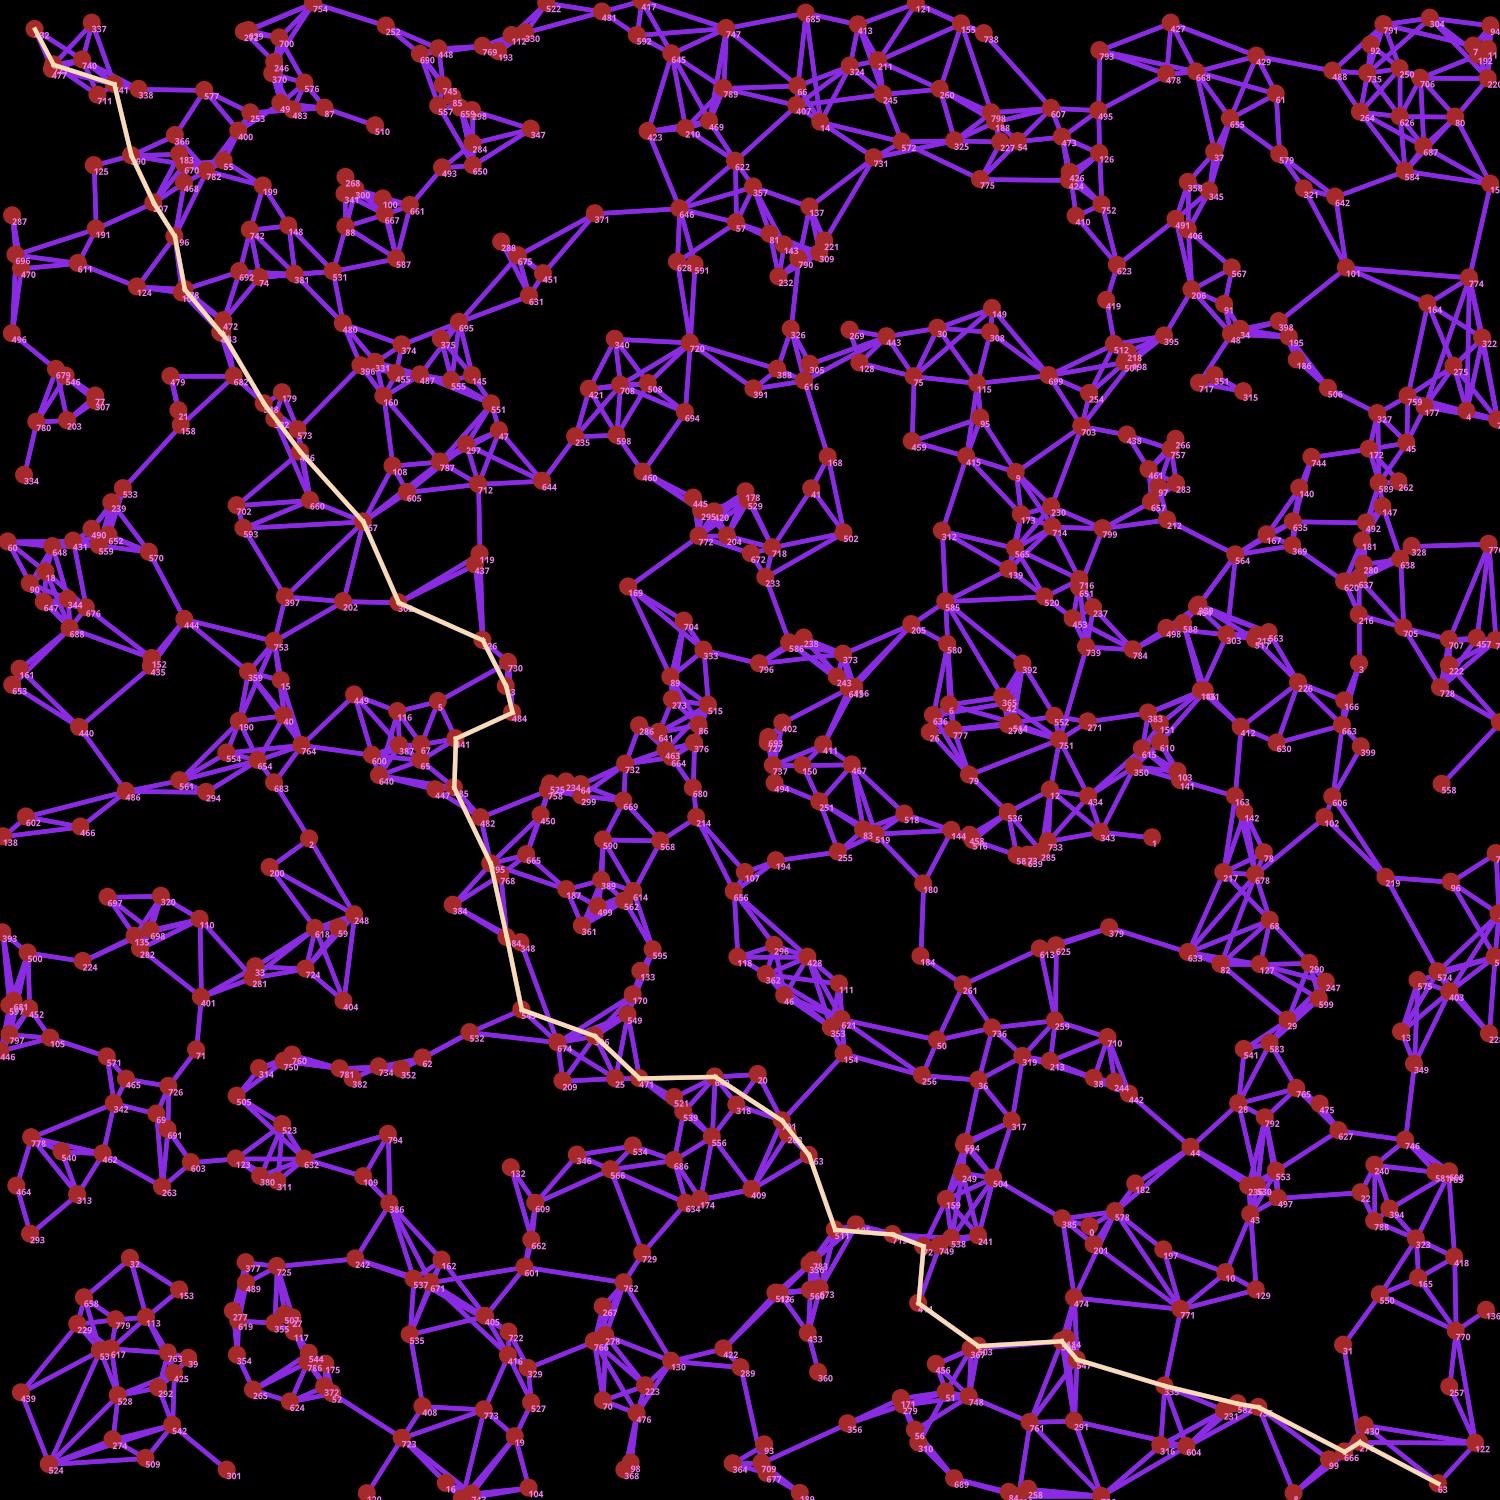
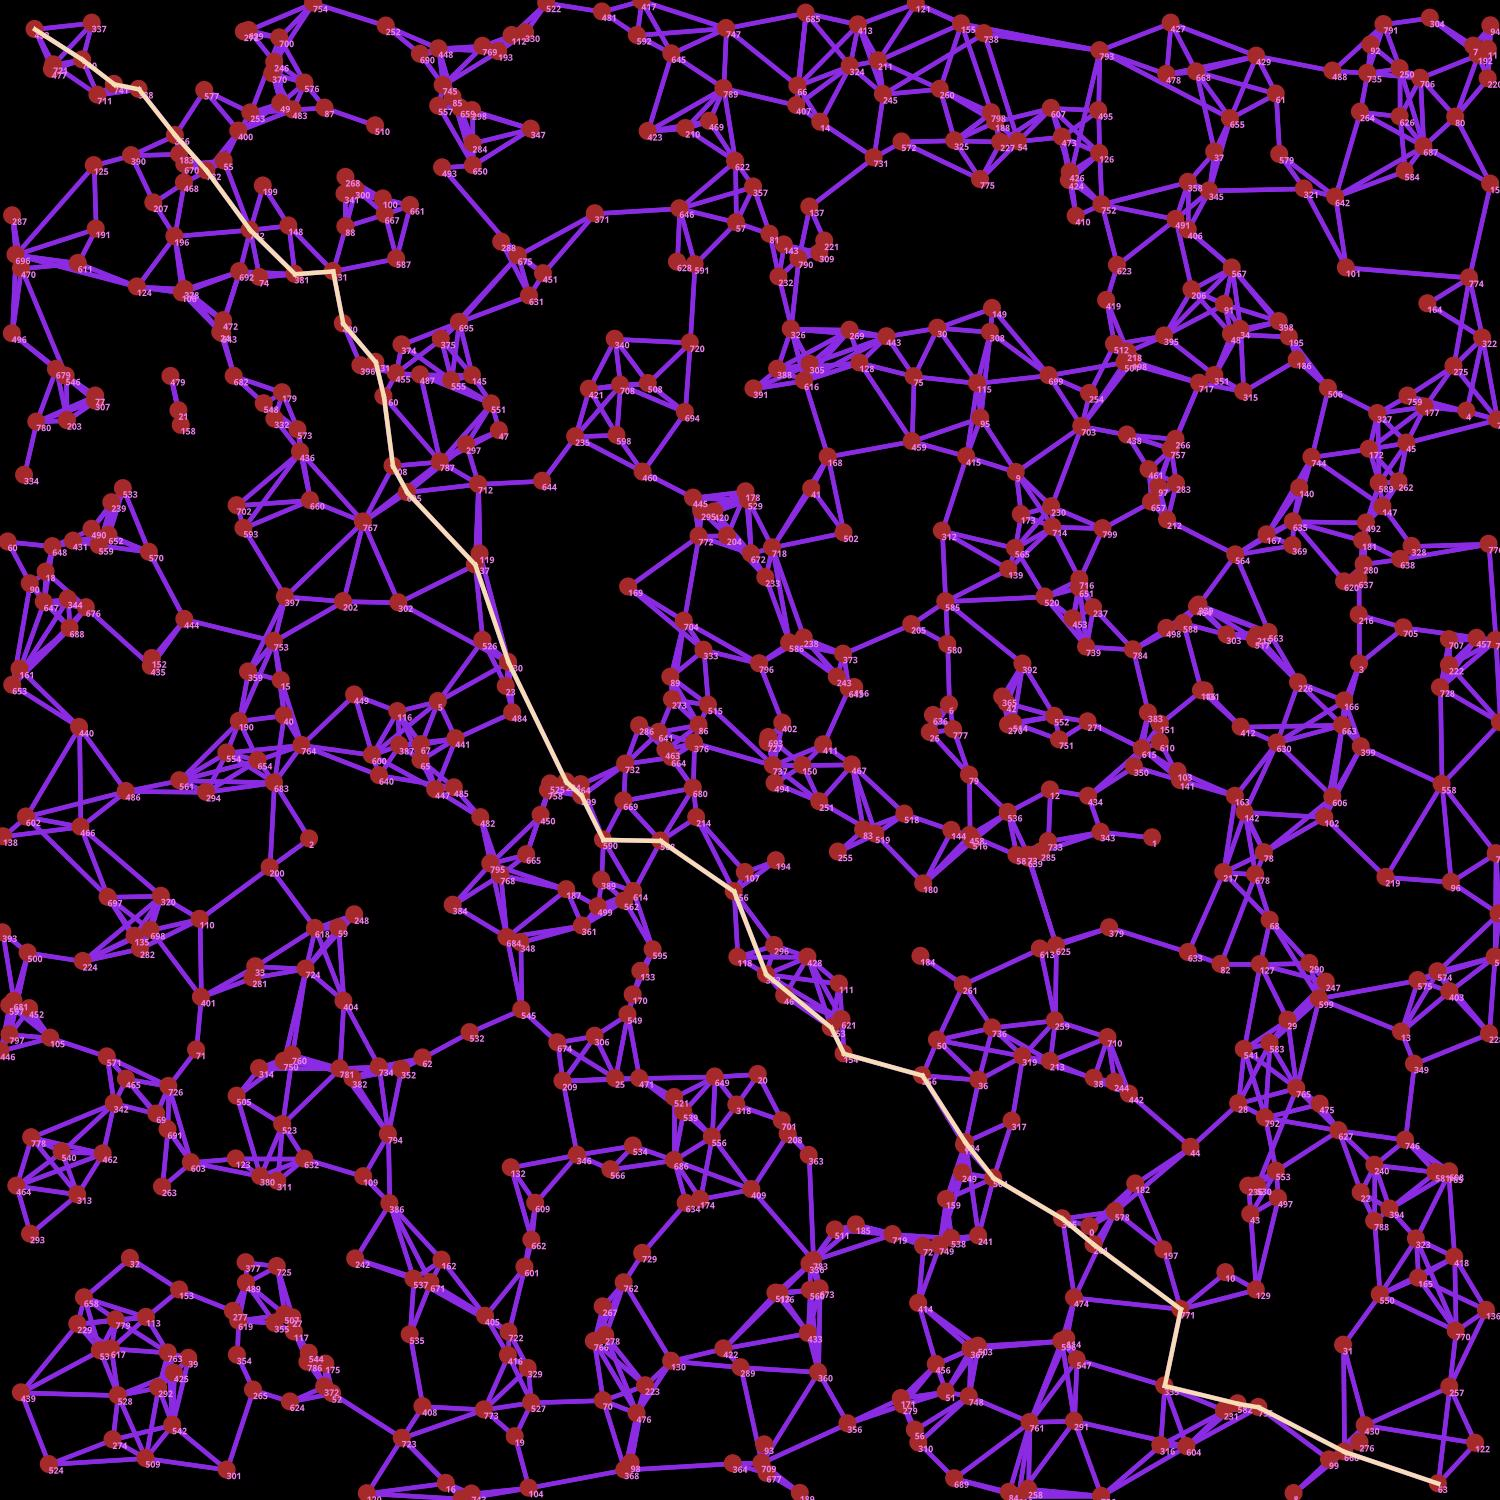
changed how NodesFactory handle connection creation. Now it is more convenient. Updated benchmark samples and tests

diff --git a/src/GraphSharp/NodesFactory.cs b/src/GraphSharp/NodesFactory.cs
@@ -14,6 +14,15 @@ namespace GraphSharp
         protected Func<int, INode> _createNode;
         protected Func<INode, INode, IChild> _createChild;
         public IList<INode> Nodes { get; protected set; }
+        /// <summary>
+        /// group of nodes that selected to be modified in next invocations.<br/>
+        /// For example nodesFactory.ForEach() will set this property just to Nodes and
+        /// next invocations of any operation will be performed on all nodes.
+        /// nodesFactory.ForOne(nodeId) will set this property to just one particular node from Nodes.
+        /// nodeFactory.ForNodes(nodes=>nodes.Where(...)) will set this property to any set of nodes
+        /// </summary>
+        /// <value></value>
+        public IEnumerable<INode> WorkingGroup { get; protected set; }
 
         /// <param name="createNode">Function to create nodes. Use it to CreateNodes for your own implementations of INode</param>
         /// <param name="createChild">Method that consists of node, parent and returns child. createChild = (node,parent)=>new SomeNode(node,parent,...) // etc..</param>
@@ -56,37 +65,56 @@ namespace GraphSharp
         }
 
         /// <summary>
-        /// Apply some operation to all nodes. 
+        /// Will set <see cref="NodesFactory.WorkingGroup"/> to <see cref="NodesFactory.Nodes"/>
         /// </summary>
-        /// <param name="operation">Function that will be applied to all nodes. Looks like this:<br/>(node,nodesFactory)=>nodesFactory.DoSomething(node)</param>
         /// <returns></returns>
-        public NodesFactory ForEach(Func<INode, NodesFactory, NodesFactory> operation)
+        public NodesFactory ForEach()
         {
-            foreach (var node in Nodes)
-                operation(node, this);
+            WorkingGroup = Nodes;
             return this;
         }
 
         /// <summary>
-        /// Randomly add to node's Children another nodes. It connect nodes to each other.
+        /// Will set <see cref="NodesFactory.WorkingGroup"/> to particular node from <see cref="NodesFactory.Nodes"/> with id = nodeId
         /// </summary>
-        /// <param name="node">Node that need to be connected</param>
+        /// <param name="nodeId"></param>
+        /// <returns></returns>
+        public NodesFactory ForOne(int nodeId){
+            WorkingGroup = Nodes.Where(x=>x.Id==nodeId);
+            return this;
+        }
+
+        /// <summary>
+        /// Will set <see cref="NodesFactory.WorkingGroup"/> to some enumerable of nodes from that must be selected from <see cref="NodesFactory.Nodes"/>
+        /// </summary>
+        /// <param name="selector">receive <see cref="NodesFactory.Nodes"/> and returns some set of values from them</param>
+        /// <returns></returns>
+        public NodesFactory ForNodes(Func<IList<INode>,IEnumerable<INode>> selector){
+            WorkingGroup = selector(Nodes);
+            return this;
+        }
+
+        /// <summary>
+        /// Randomly adds to node's Children another nodes. It connect nodes to each other from current <see cref="NodesFactory.WorkingGroup"/>
+        /// </summary>
         /// <param name="countOfConnections">How much children node need</param>
-        public NodesFactory ConnectNodes(INode node, int countOfConnections)
+        public NodesFactory ConnectNodes(int countOfConnections)
         {
             countOfConnections = countOfConnections > Nodes.Count ? Nodes.Count : countOfConnections;
 
-            var start_index = _rand.Next(Nodes.Count);
-            ConnectNodeToNodes(node, start_index, countOfConnections);
+            foreach (var node in WorkingGroup)
+            {
+                var start_index = _rand.Next(Nodes.Count);
+                ConnectNodeToNodes(node, start_index, countOfConnections);
+            }
             return this;
         }
         /// <summary>
-        /// Randomly add to node's Children another nodes, but create random count of connections. It connect nodes to each other.
+        /// Randomly add to node's Children another nodes, but create random count of connections. It connect nodes to each other from current <see cref="NodesFactory.WorkingGroup"/>
         /// </summary>
-        /// <param name="node">Node that need to be connected to others</param>
         /// <param name="minCountOfNodes">Min count of children of each node</param>
         /// <param name="maxCountOfNodes">Max count of children of each node</param>
-        public NodesFactory ConnectRandomly(INode node, int minCountOfNodes, int maxCountOfNodes)
+        public NodesFactory ConnectRandomly(int minCountOfNodes, int maxCountOfNodes)
         {
             minCountOfNodes = minCountOfNodes < 1 ? 1 : minCountOfNodes;
             maxCountOfNodes = maxCountOfNodes > Nodes.Count ? Nodes.Count : maxCountOfNodes;
@@ -99,48 +127,58 @@ namespace GraphSharp
                 minCountOfNodes = minCountOfNodes ^ maxCountOfNodes;
             }
 
-            int count_of_connections = _rand.Next(maxCountOfNodes - minCountOfNodes) + minCountOfNodes;
-            var start_index = _rand.Next(Nodes.Count);
-            ConnectNodeToNodes(node, start_index, count_of_connections);
+            foreach (var node in WorkingGroup)
+            {
+                int count_of_connections = _rand.Next(maxCountOfNodes - minCountOfNodes) + minCountOfNodes;
+                var start_index = _rand.Next(Nodes.Count);
+                ConnectNodeToNodes(node, start_index, count_of_connections);
+            }
             return this;
         }
 
         /// <summary>
-        /// Removes parent node from it's children connection. Or simply makes any connection between nodes onedirectional.
+        /// Removes parent node from it's children connection. Or simply makes any connection between nodes onedirectional in current <see cref="NodesFactory.WorkingGroup"/>
         /// </summary>
-        public NodesFactory MakeDirected(INode parent)
+        public NodesFactory MakeDirected()
         {
-            bool fine = false;
-            while (!fine)
+            foreach (var parent in WorkingGroup)
             {
-                fine = true;
-                for (int i = 0; i < parent.Children.Count; i++)
+                bool fine = false;
+                while (!fine)
                 {
-                    var child = parent.Children[i];
-
-                    var toRemove = child.Node.Children.Any(x => x.Node.Id == parent.Id);
-                    if (toRemove)
+                    fine = true;
+                    for (int i = 0; i < parent.Children.Count; i++)
                     {
-                        parent.Children.Remove(child);
-                        fine = false;
+                        var child = parent.Children[i];
+
+                        var toRemove = child.Node.Children.Any(x => x.Node.Id == parent.Id);
+                        if (toRemove)
+                        {
+                            parent.Children.Remove(child);
+                            fine = false;
+                        }
                     }
                 }
             }
             return this;
         }
         /// <summary>
-        /// ensures that every child of parent's node have parent included in children. Or simply make sure that any connection between two nodes are bidirectional. 
+        /// ensures that every child of parent's node have parent included in children. Or simply make sure that any connection between two nodes are bidirectional in current <see cref="NodesFactory.WorkingGroup"/>
         /// </summary>
-        public NodesFactory MakeUndirected(INode parent)
+        public NodesFactory MakeUndirected()
         {
-            for (int i = 0; i < parent.Children.Count; i++)
+            foreach (var parent in WorkingGroup)
             {
-                var child = parent.Children[i];
 
-                var toAdd = !child.Node.Children.Any(x => x.Node.Id == parent.Id);
-                if (toAdd)
+                for (int i = 0; i < parent.Children.Count; i++)
                 {
-                    child.Node.Children.Add(_createChild(parent, child.Node));
+                    var child = parent.Children[i];
+
+                    var toAdd = !child.Node.Children.Any(x => x.Node.Id == parent.Id);
+                    if (toAdd)
+                    {
+                        child.Node.Children.Add(_createChild(parent, child.Node));
+                    }
                 }
             }
             return this;
@@ -165,57 +203,65 @@ namespace GraphSharp
         }
 
         /// <summary>
-        /// Randomly connects node to it's closest nodes by distance function.
+        /// Randomly connects node to it's closest nodes by distance function in current <see cref="NodesFactory.WorkingGroup"/>
         /// </summary>
         /// <param name="minChildCount">minimum children count</param>
         /// <param name="maxChildCount">maximum children count</param>
         /// <param name="distance">Func to determine how much one node is distant from another</param>
         /// <returns></returns>
-        public NodesFactory ConnectToClosest(INode parent, int minChildCount, int maxChildCount, Func<INode, INode, double> distance)
+        public NodesFactory ConnectToClosest(int minChildCount, int maxChildCount, Func<INode, INode, double> distance)
         {
-            if (parent.Children.Count > maxChildCount) return this;
-            var childCount = _rand.Next(maxChildCount - minChildCount) + minChildCount;
-            for (int i = 0; i < childCount; i++)
+            foreach (var parent in WorkingGroup)
             {
-                (INode? node, double distance) min = (null, 0);
-                int shift = _rand.Next(Nodes.Count);
-
-                for (int b = 0; b < Nodes.Count; b++)
+                if (parent.Children.Count > maxChildCount) continue;
+                var childCount = _rand.Next(maxChildCount - minChildCount) + minChildCount;
+                for (int i = 0; i < childCount; i++)
                 {
-                    var pretendent = Nodes[(b + shift) % Nodes.Count];
+                    (INode? node, double distance) min = (null, 0);
+                    int shift = _rand.Next(Nodes.Count);
 
-                    if (pretendent.Id == parent.Id) continue;
-                    if (pretendent.Children.Count > maxChildCount) continue;
+                    for (int b = 0; b < Nodes.Count; b++)
+                    {
+                        var pretendent = Nodes[(b + shift) % Nodes.Count];
 
-                    if (min.node is null)
-                    {
-                        min = (pretendent, distance(parent, pretendent));
-                        continue;
+                        if (pretendent.Id == parent.Id) continue;
+                        if (pretendent.Children.Count > maxChildCount) continue;
+
+                        if (min.node is null)
+                        {
+                            min = (pretendent, distance(parent, pretendent));
+                            continue;
+                        }
+                        var pretendent_distance = distance(parent, pretendent);
+                        if (pretendent_distance < min.distance && parent.Children.FirstOrDefault(x => x.Node.Id == pretendent.Id) is null)
+                        {
+                            min = (pretendent, pretendent_distance);
+                        }
                     }
-                    var pretendent_distance = distance(parent, pretendent);
-                    if (pretendent_distance < min.distance && parent.Children.FirstOrDefault(x => x.Node.Id == pretendent.Id) is null)
-                    {
-                        min = (pretendent, pretendent_distance);
-                    }
+                    var node = min.node;
+                    if (node is null) continue;
+                    parent.Children.Add(_createChild(node, parent));
+                    node.Children.Add(_createChild(parent, node));
                 }
-                var node = min.node;
-                if (node is null) continue;
-                parent.Children.Add(_createChild(node, parent));
-                node.Children.Add(_createChild(parent, node));
             }
             return this;
         }
 
         /// <summary>
-        /// removes all children of parent nodes and every connection to parent node from any other node. It simply isolate node from others.
+        /// removes all children of parent nodes and every connection to parent node from any other node. It simply isolate node from others in current <see cref="NodesFactory.WorkingGroup"/>
         /// </summary>
         /// <returns></returns>
-        public NodesFactory RemoveAllConnections(INode parent){
-            parent.Children.Clear();
-            foreach(var node in Nodes){
-                var toRemove = node.Children.FirstOrDefault(x=>x.Node.Id==parent.Id);
-                if(toRemove is not null)
-                    node.Children.Remove(toRemove);
+        public NodesFactory RemoveAllConnections()
+        {
+            foreach (var parent in WorkingGroup)
+            {
+                parent.Children.Clear();
+                foreach (var node in Nodes)
+                {
+                    var toRemove = node.Children.FirstOrDefault(x => x.Node.Id == parent.Id);
+                    if (toRemove is not null)
+                        node.Children.Remove(toRemove);
+                }
             }
             return this;
         }

diff --git a/tests/NodesFactoryTests.cs b/tests/NodesFactoryTests.cs
@@ -23,7 +23,8 @@ namespace tests
         }
         [Fact]
         public void ConnectToClosestWorks(){
-            _nodesFactory.ForEach((node,factory)=>factory.ConnectToClosest(node,1,6,(n1,n2)=>n1.Id-n2.Id));
+            _nodesFactory.ForEach()
+            .ConnectToClosest(1,6,(n1,n2)=>n1.Id-n2.Id);
             validateThereIsNoCopiesAndParentInChildren(_nodesFactory.Nodes);
         }
         [Fact]
@@ -34,12 +35,14 @@ namespace tests
             var directed = 
                 new NodesFactory(rand : new Random(seed))
                     .CreateNodes(2000)
-                    .ForEach((n,f)=>f.ConnectNodes(n,20))
-                    .ForEach((n,f)=>f.MakeDirected(n));
+                    .ForEach()
+                    .ConnectNodes(20)
+                    .MakeDirected();
             var undirected = 
                 new NodesFactory(rand : new Random(seed))
                     .CreateNodes(2000)
-                    .ForEach((n,f)=>f.ConnectNodes(n,20));
+                    .ForEach()
+                    .ConnectNodes(20);
 
             Assert.Equal(directed.Nodes, undirected.Nodes);
 
@@ -75,13 +78,16 @@ namespace tests
             var maybeUndirected = 
                 new NodesFactory(rand : new Random(seed))
                 .CreateNodes(2000)
-                .ForEach((node,factory)=>factory.ConnectNodes(node,20));
+                .ForEach()
+                .ConnectNodes(20);
+
             var undirected = 
                 new NodesFactory(rand : new Random(seed))
                 .CreateNodes(2000)
-                .ForEach((node,factory)=>factory.ConnectNodes(node,20))
+                .ForEach()
+                .ConnectNodes(20)
                 //one of them make 100% undirected
-                .ForEach((node,factory)=>factory.MakeUndirected(node));
+                .MakeUndirected();
 
             //ensure they are the same
             Assert.Equal(maybeUndirected.Nodes, undirected.Nodes);
@@ -126,7 +132,8 @@ namespace tests
         public void ConnectNodesWorks()
         {
             int children_count = 100;
-            _nodesFactory.ForEach((n,f)=>f.ConnectNodes(n,children_count));
+            _nodesFactory.ForEach()
+            .ConnectNodes(children_count);
             validateThereIsNoCopiesAndParentInChildren(_nodesFactory.Nodes);
             Parallel.ForEach(_nodesFactory.Nodes, node =>
              {
@@ -139,7 +146,9 @@ namespace tests
         {
             const int min_count_of_nodes = 5;
             const int max_count_of_nodes = 30;
-            _nodesFactory.ForEach((n,f)=>f.ConnectRandomly(n,min_count_of_nodes,max_count_of_nodes));
+            _nodesFactory.ForEach()
+            .ConnectRandomly(min_count_of_nodes,max_count_of_nodes);
+
             validateThereIsNoCopiesAndParentInChildren(_nodesFactory.Nodes);
             Parallel.ForEach(_nodesFactory.Nodes, node =>
              {
@@ -149,6 +158,7 @@ namespace tests
         }
         public void validateThereIsNoCopiesAndParentInChildren(IList<INode> nodes)
         {
+            Assert.NotEmpty(nodes);
             foreach (var parent in nodes)
             {
                 Assert.Equal(parent.Children.Distinct(), parent.Children);

diff --git a/samples/FindTheShortestPath/Program.cs b/samples/FindTheShortestPath/Program.cs
@@ -18,8 +18,9 @@ var conRand = new Random(argz.connectionSeed >=0 ? argz.connectionSeed : new Ran
 var nodes = 
     new NodesFactory( id => new NodeXY(id, rand.NextDouble(), rand.NextDouble()),(node,parent)=>new NodeConnector(node,parent),conRand)
     .CreateNodes(argz.nodesCount)
-    .ForEach((node,f)=>f.ConnectToClosest(node,argz.minChildren,argz.maxChildren,(node1,node2)=>((NodeXY)node1).Distance((NodeXY)node2)))
-    .ForEach((node,f)=>f.MakeUndirected(node))
+    .ForEach()
+    .ConnectToClosest(argz.minChildren,argz.maxChildren,(node1,node2)=>((NodeXY)node1).Distance((NodeXY)node2))
+    .MakeUndirected()
     .Nodes;
 
 

diff --git a/samples/FindAllNodesPath/Program.cs b/samples/FindAllNodesPath/Program.cs
@@ -6,8 +6,8 @@ var rand = new Random();
 var nodes = 
     new NodesFactory(id=>new NodeXY(id,rand.NextDouble(),rand.NextDouble()),(node,parent)=>new NodeConnector(node,parent),new Random(rand.Next()))
     .CreateNodes(800)
-    .ConnectToClosest(1,5,(n1,n2)=>((NodeXY)n1).Distance((NodeXY)n2))
-    .MakeUndirected()
+    .ForEach((n,f)=>f.ConnectToClosest(n,1,5,(n1,n2)=>((NodeXY)n1).Distance((NodeXY)n2)))
+    .ForEach((n,f)=>f.MakeUndirected(n))
     .Nodes;
     
 var startNode = nodes[0] as NodeXY ?? new NodeXY(0,0,0);

diff --git a/tests/GraphTests.cs b/tests/GraphTests.cs
@@ -23,7 +23,8 @@ namespace tests
             this._nodes = 
                 new NodesFactory()
                 .CreateNodes(5000)
-                .ForEach((n,f)=>f.ConnectRandomly(n,5,30))
+                .ForEach()
+                .ConnectRandomly(5,30)
                 .Nodes;
             createGraph = nodes=>new Graph(nodes);
             // createGraph = nodes=>new Graph(nodes,PropagatorFactory.Create<Propagator>());

diff --git a/Benchmark/Benchmark.cs b/Benchmark/Benchmark.cs
@@ -22,7 +22,8 @@ watch1.Start();
 var nodes = 
     new NodesFactory()
     .CreateNodes(nodes_count)
-    .ForEach((n,f)=>f.ConnectNodes(n,children_count))
+    .ForEach()
+    .ConnectNodes(children_count)
     .Nodes;
 
 System.Console.WriteLine($"Time {watch1.ElapsedMilliseconds} milliseconds to create nodes");
